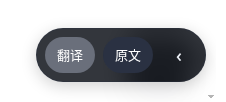
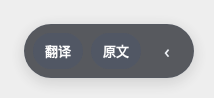
docs: README UI redesign screenshots (IA + Soft Graphite)
Refresh docs/screenshots for the Apple IA popup, Soft Graphite chrome, and muted options brand-links. Rewrite zh/en screenshot sections and keep usage paths on 引擎 / 阅读 / 功能 / 高级.

diff --git a/README.en.md b/README.en.md
@@ -23,7 +23,7 @@ Not affiliated with the commercial “Immersive Translate” product.
 | Per-page quota | `all` or `title + lead` (H1 + first body block; the lead is capped at about 3 lines / 220 characters). **Batch size** only controls how many segments go in one API request, not how many segments the page may translate. |
 | Learning center | Save words / phrases / sentences. All items or due-today review (simplified SM-2). Export Markdown / PDF / Word. |
 | Documents | Read TXT / MD / HTML, translate by segment, edit the target, retry failures, export HTML. |
-| Faithful-then-polish | **On by default** (main Options page, not Advanced). LLMs do a faithful draft, then a polish pass — better quality, more tokens. You can turn it off. LLM engines only; a custom system prompt skips the second pass. |
+| Faithful-then-polish | **On by default** (**Settings → 功能**, not Advanced). LLMs do a faithful draft, then a polish pass — better quality, more tokens. You can turn it off. LLM engines only; a custom system prompt skips the second pass. |
 | PDF reader (lab) | **Off by default** (Settings → Advanced, opt-in). When enabled: text-layer extract → Markdown reading-flow → translate. Content can misalign; **formulas may be dropped or garbled**; **English formulas/math may be wrongly translated into Chinese**. No OCR; no text layer → empty right pane. Future (not shipped): **OCR and/or multimodal vision** → faithful PDF→Markdown (**preserve formulas/LaTeX; do not translate math in that step**) → then translate Markdown with **formula/symbol/code protection**. One-shot multimodal image→translated Chinese MD is **not** enough alone. **Webpage bilingual remains the primary product.** |
 | Shortcut | `Alt+T`: start translation / restore original (restore clears translations). |
 
@@ -34,7 +34,9 @@ https://claude.com/blog/what-1-000-small-business-owners-taught-us-about-ai
 
 ## Screenshots
 
-**What it does (bilingual page)**
+Popup and Settings use **Soft Graphite** chrome: stacked graphite layers, quieter cards, accent `#6b8cff`.
+
+**Webpage bilingual + FAB**
 
 ![Bilingual webpage and FAB](docs/screenshots/01-bilingual-page.png)
 
@@ -42,19 +44,33 @@ Chinese gloss under the original paragraphs; glass FAB at the bottom right.
 
 ![FAB capsule](docs/screenshots/02-fab.png)
 
-**How to use (popup / FAB)**
+Translate / Original / collapse. Draggable; position is saved.
+
+**Popup**
 
 ![Toolbar popup](docs/screenshots/05-popup.png)
 
-Page primary **翻译此页** (becomes **停止** while a job runs), **恢复原文**, scope, and languages. Quota lives under **更多**. **No PDF in the footer by default**; if this shot still shows the old toggle, trust this IA — the PDF link appears only **after enabling lab PDF**.
+Intent card: primary **翻译此页** (becomes **停止** while a job runs), **恢复原文**, per-site auto, scope, and languages. Quota lives under **更多**. **No progress bar.** Footer is **设置 · 学习 · 文档**. No PDF in the footer by default; the PDF link appears only **after enabling lab PDF**. A PDF tab shows **在沉浸译中打开（实验室）** only when the lab is on.
 
-**How to configure (Engine / Reading / Features / Advanced)**
+**Settings four groups: 引擎 / 阅读 / 功能 / 高级**
+
+Under the title in the left rail: muted **学习中心 · 文档翻译** (brand-links, not an accent CTA), then the four tabs.
 
 ![Options: default engine and test connection](docs/screenshots/03-options-engine.png)
 
-![Options: body–gloss spacing](docs/screenshots/04-options-spacing.png)
+**引擎**: current engine key, Base URL, model, and test connection (API fields redacted in the shot).
 
-Settings has four groups: **引擎** (keys + test connection), **阅读** (type scale and body spacing), **功能** (webpage / FAB / learning / documents / 先信后润), **高级** (PDF lab and later toggles). If screenshots still show a single long form, the four destinations are the source of truth.
+![Options: reading](docs/screenshots/04-options-reading.png)
+
+**阅读**: font scale plus the two body gaps only. No translation-style dropdown or preview table.
+
+![Options: left rail](docs/screenshots/07-options-nav.png)
+
+Left rail: muted 学习中心 · 文档翻译 + 引擎 / 阅读 / 功能 / 高级.
+
+![Options: Advanced](docs/screenshots/08-options-advanced.png)
+
+**高级**: hover / selection / captions and **PDF 阅读（实验室）** are off by default. **先信后润** lives under **功能** (on by default), not here.
 
 **PDF lab (optional)**
 
@@ -113,14 +129,14 @@ Open a foreign-language page and click **翻译** on the FAB.
 
 The popup can also change page scope, source/target language, and per-site auto-translate; per-page quota is under **更多**. Footer links are **设置 · 学习 · 文档**. PDF entries are hidden by default. Only after you enable **PDF 阅读（实验室）** under **Settings → Advanced** does the popup footer show **PDF**, and a PDF tab show **在沉浸译中打开（实验室）** (Open in Open Immerse).
 
-Font scale and body spacing live under **Settings → 阅读**. There is no translation-style dropdown or preview table.
+Font scale and body spacing live under **Settings → 阅读**. That group is font scale plus two gaps only — no translation-style dropdown or preview table.
 
 Spacing (Settings → 阅读, number inputs; **body paragraphs only — not headings or sidebars**):
 
 - **正文译文间距** (`bodyGlossGap`): gap between each source block and its gloss underneath; typically ~0.10–0.70 (em-ish)
 - **译文段间距** (`bodyGlossStackGap`): extra space between consecutive body gloss blocks; range **0–2.5**. Values 0 / 1 / 2 are visibly different
 
-On the main Options page, **先信后润** (`twoStepPolish`, **on by default**): LLMs do a faithful draft, then a polish pass — better quality, more tokens. You can turn it off. LLM engines only.
+Under **Settings → 功能**, **先信后润** (`twoStepPolish`, **on by default**): LLMs do a faithful draft, then a polish pass — better quality, more tokens. You can turn it off. LLM engines only.
 
 ### 3. Save and review
 
@@ -132,7 +148,7 @@ Items live in `chrome.storage.local` (`oiLearning`), separate from synced settin
 
 ### 4. Documents
 
-Popup → **文档**, or the link at the top of Settings. Paste or load TXT / MD / HTML, translate by segment, edit the target on the right, export `open-immerse-bilingual.html`.
+Popup → **文档**, or **文档翻译** under the title in the Settings left rail. Paste or load TXT / MD / HTML, translate by segment, edit the target on the right, export `open-immerse-bilingual.html`.
 
 No layout-preserving Office or scanned files here. Convert to plain text first. Scans wait on the lab OCR path, or convert to Markdown yourself.
 
@@ -185,7 +201,7 @@ Language list comes from `lib/languages.js` (auto-detect, Simplified/Traditional
 
 Every LLM adapter shares one Skill: `lib/translate-skill.js`.
 
-- Settings page **先信后润** (`twoStepPolish`, **on by default**): faithful draft first. The page inserts the draft and toasts “润色中”, then replaces it with the polished text. Better quality, more tokens. You can turn it off. LLM engines only. If polish fails, the draft stays and a short “润色失败” toast appears
+- **Settings → 功能** **先信后润** (`twoStepPolish`, **on by default**): faithful draft first. The page inserts the draft and toasts “润色中”, then replaces it with the polished text. Better quality, more tokens. You can turn it off. LLM engines only. If polish fails, the draft stays and a short “润色失败” toast appears
 - This is ordinary language conversion (e.g. English → modern Chinese). **Not classical Chinese**
 - A non-empty custom system prompt skips the second pass
 - Chinese targets get a glossary hint, then two safety nets after parse: `guardZhBusinessSense` (so “business owners” does not fuse into 主教 / “bishop”) and `guardZhTitleCalques` (strips hollow title wrappers)

diff --git a/README.md b/README.md
@@ -21,7 +21,7 @@
 | 本次翻译额度 | `全部` 或 `仅标题+开头`（H1 + 第一段正文，开头段最多约 3 行 / 220 字）。「每批条数」只决定一次请求翻几段，不是本页总数。 |
 | 学习中心 | 收藏单词 / 短语 / 句子；全部 / 今日待复习（简化 SM-2）；导出 Markdown / PDF / Word。 |
 | 文档翻译 | TXT / MD / HTML 直读分段双语，译文可改，失败可重试，导出 HTML。 |
-| 先信后润 | **默认开**（设置页主界面，不在高级里）。LLM 先忠实直译，再润色一稿；质量更好、更耗 token。可关。仅 LLM 引擎生效；自定义系统提示词则跳过第二步。 |
+| 先信后润 | **默认开**（**设置 → 功能**，不在高级里）。LLM 先忠实直译，再润色一稿；质量更好、更耗 token。可关。仅 LLM 引擎生效；自定义系统提示词则跳过第二步。 |
 | PDF 阅读（实验室） | **默认关闭**（设置 → 高级，opt-in）。开启后：文字层提取 → Markdown 通读 → 翻译。内容可能错位；**公式可能丢失或乱码**；**英文公式/数学可能被误译成中文**。无 OCR；无文字层则右栏空白。后期（未交付）：**OCR 和/或多模态视觉** → 忠实 PDF→Markdown（**保留公式/LaTeX，该步不译数学**）→ 再翻译 Markdown 并**保护公式、符号与代码**。单次多模态「图→中文 MD」不够。**网页双语仍是主产品。** |
 | 快捷键 | `Alt+T`：开译 / 恢复原文（关即清译文）。 |
 
@@ -32,7 +32,9 @@ https://claude.com/blog/what-1-000-small-business-owners-taught-us-about-ai
 
 ## 界面预览
 
-**功能（双语页）**
+弹层与设置页是 **Soft Graphite** 壳层：分层石墨底、卡片层次更安静，强调色 `#6b8cff`。
+
+**网页双语与 FAB**
 
 ![网页双语与右下角 FAB](docs/screenshots/01-bilingual-page.png)
 
@@ -40,19 +42,33 @@ https://claude.com/blog/what-1-000-small-business-owners-taught-us-about-ai
 
 ![FAB 胶囊](docs/screenshots/02-fab.png)
 
-**如何使用（弹层 / FAB）**
+翻译 / 原文 / 收起。可拖动，位置写入设置。
+
+**弹层**
 
 ![扩展弹层](docs/screenshots/05-popup.png)
 
-主按钮「翻译此页」（进行中变为「停止」）、「恢复原文」、范围与语言。额度在折叠的「更多」。**默认底部没有 PDF**；上图若仍显示旧开关/底部 PDF，以本文信息架构为准——底部 PDF 链只在**开启实验室 PDF 后**出现。
+主卡片：「翻译此页」（进行中变为「停止」）、「恢复原文」、本站自动、范围与语言。额度在折叠的「更多」。**没有进度条。** 底栏是 **设置 · 学习 · 文档**。默认底部没有 PDF；开启实验室 PDF 后，底栏才会出现 PDF。当前标签已是 PDF 时才会出现「在沉浸译中打开（实验室）」。
 
-**如何配置（引擎 / 阅读 / 功能 / 高级）**
+**设置四组：引擎 / 阅读 / 功能 / 高级**
+
+左侧栏标题下是弱化的 **学习中心 · 文档翻译**（不是强调色按钮），其下四个分组。
 
 ![设置：默认引擎与测试连接](docs/screenshots/03-options-engine.png)
 
-![设置：正文译文间距](docs/screenshots/04-options-spacing.png)
+**引擎**：当前默认引擎的密钥、Base URL、模型与测试连接（截图已打码）。
 
-设置页四组：**引擎**（密钥与测试连接）、**阅读**（字号与正文间距）、**功能**（网页 / FAB / 学习 / 文档 / 先信后润）、**高级**（PDF 实验室等）。截图若仍是单页长表，以四组导航为准。
+![设置：阅读](docs/screenshots/04-options-reading.png)
+
+**阅读**：只有译文字号比例、正文译文间距、译文段间距。没有译文样式下拉或预览表。
+
+![设置：左侧导航](docs/screenshots/07-options-nav.png)
+
+左侧栏：弱化的「学习中心 · 文档翻译」+ 引擎 / 阅读 / 功能 / 高级。
+
+![设置：高级](docs/screenshots/08-options-advanced.png)
+
+**高级**：悬浮 / 划词 / 字幕与 **PDF 阅读（实验室）** 默认关。**先信后润** 在 **功能** 组（默认开），不在这里。
 
 **PDF 实验室（可选）**
 
@@ -107,16 +123,16 @@ git clone https://github.com/wisdom-km/open-immerse.git
 | 弹层「翻译此页」 | 开译；进行中变为「停止」（只中止，不清译文） |
 | `Alt+T` | 开译；再按一次恢复原文 |
 
-弹层里还可以改：本页范围、源/目标语言、本站自动；本次额度在「更多」。底部是 **设置 · 学习 · 文档**。默认不出现 PDF 入口。只有在 **设置 → 高级** 打开「PDF 阅读（实验室）」后，弹层底部才会出现 **PDF**；当前标签已是 PDF 时才会出现「在沉浸译中打开（实验室）」。
+弹层里还可以改：本页范围、源/目标语言、本站自动；本次额度在「更多」。底栏是 **设置 · 学习 · 文档**。默认不出现 PDF 入口。只有在 **设置 → 高级** 打开「PDF 阅读（实验室）」后，弹层底部才会出现 **PDF**；当前标签已是 PDF 时才会出现「在沉浸译中打开（实验室）」。
 
-译文字号比例和正文间距在 **设置 → 阅读**。不再提供译文样式下拉或预览表。
+译文字号比例和正文间距在 **设置 → 阅读**。只有字号比例 + 两个间距；不再提供译文样式下拉或预览表。
 
 间距（设置 → 阅读，数字输入；**只作用于正文段落，不含标题和侧栏**）：
 
 - **正文译文间距**（`bodyGlossGap`）：每个原文块与其下方译文的空隙，约 0.10–0.70（em 量级）
 - **译文段间距**（`bodyGlossStackGap`）：相邻两段正文译文之间的额外空隙，范围 **0–2.5**；设成 0 / 1 / 2 时肉眼可辨
 
-设置页主界面 **先信后润**（`twoStepPolish`，**默认开**）：LLM 先忠实直译，再润色一稿；质量更好、更耗 token。可关。仅 LLM 引擎生效。
+**设置 → 功能** 里的 **先信后润**（`twoStepPolish`，**默认开**）：LLM 先忠实直译，再润色一稿；质量更好、更耗 token。可关。仅 LLM 引擎生效。
 
 ### 3. 收藏与复习
 
@@ -128,7 +144,7 @@ git clone https://github.com/wisdom-km/open-immerse.git
 
 ### 4. 文档
 
-弹层 → **文档**，或设置页顶部链接。粘贴或读入 TXT / MD / HTML，分段翻译，右侧可改译文，导出 `open-immerse-bilingual.html`。
+弹层 → **文档**，或设置页左侧标题下的 **文档翻译**。粘贴或读入 TXT / MD / HTML，分段翻译，右侧可改译文，导出 `open-immerse-bilingual.html`。
 
 不支持版式还原的 Office / 扫描件；可先转纯文本。扫描件请等实验室 OCR 路线，或自行转 Markdown。
 
@@ -181,7 +197,7 @@ git clone https://github.com/wisdom-km/open-immerse.git
 
 所有 LLM adapter 走同一套 Skill：`lib/translate-skill.js`。
 
-- 设置页主界面 **先信后润**（`twoStepPolish`，**默认开**）：先忠实直译，页面先插入草稿并 toast「润色中」，再换成终稿。质量更好、更耗 token。可关。仅 LLM 引擎生效。润色失败保留草稿，短 toast「润色失败」
+- **设置 → 功能** **先信后润**（`twoStepPolish`，**默认开**）：先忠实直译，页面先插入草稿并 toast「润色中」，再换成终稿。质量更好、更耗 token。可关。仅 LLM 引擎生效。润色失败保留草稿，短 toast「润色失败」
 - 这是普通语际转换（如英 → 现代汉语），**不是文言文**
 - 引擎里填了自定义系统提示词 → 仍单次，跳过第二步
 - 中文目标会追加 glossary hint，并在解析后跑两道安全网：`guardZhBusinessSense`（避免 “business owners” 融成「主教」）、`guardZhTitleCalques`（去掉标题空套话）
